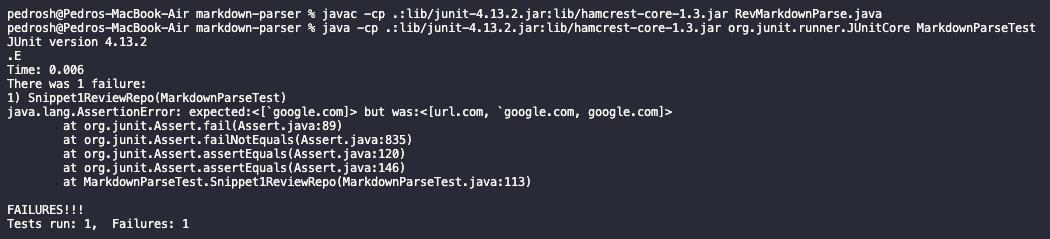
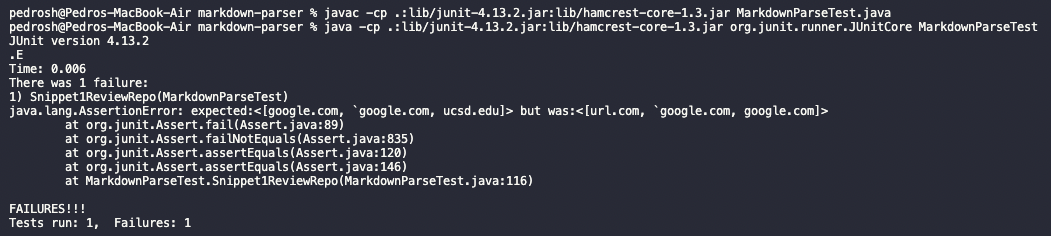
finish lab report 4

Changed region(s): [[0.0, 0.0297, 1.0, 0.8008], [0.0, 0.8602, 0.1829, 0.9788]]

diff --git a/lab-report-4.md b/lab-report-4.md
@@ -9,10 +9,14 @@
 **Only Valid Link:**
 ```
 [another link](`google.com)`
+
+[`cod[e`](google.com)
+
+[`code]`](ucsd.edu)
 ```
 **Expected Result:**
 ```
-[`google.com]
+[`google.com, google.com, ucsd.edu]
 ```
 
 ### Evidence of Code --> Test
@@ -37,14 +41,14 @@
 ```
 **Expected Result:**
 ```
-[a.com, a.com((, example.com]
+[a.com, a.com(()), example.com]
 ```
 
 ### Evidence of Code --> Test
 ![snippet2](/LabReport4/snippet2test.png)
 
 ### Personal Implementation
-**Passed the jUnit Test**
+![personalFail2](/LabReport4/personalFail2.png)
 
 ### Week 7 Implementation
 ![repoFail2](/LabReport4/repoFail2.png)
@@ -75,8 +79,8 @@ https://sites.google.com/eng.ucsd.edu/cse-15l-spring-2022/schedule
 
 ---
 # Questions
-1. Do you think there is a small (<10 lines) code change that will make your program work for snippet 1 and all related cases that use inline code with backticks? If yes, describe the code change. If not, describe why it would be a more involved change.
+1. The first thing that comes to mind is to implement a counter or sensor that checks for Back ticks. The way this would work is that if the current character is a backtick, then it would note its position and keep a lookout for the next backtick that closes the first one. With this information stored it can check if both backticks are between the square brackest position in order to be a valid link. 
 
-2. Do you think there is a small (<10 lines) code change that will make your program work for snippet 2 and all related cases that nest parentheses, brackets, and escaped brackets? If yes, describe the code change. If not, describe why it would be a more involved change.
+2. My implementation only missed the rest of the parenthesis in the second link. This is because it prematurley ended the loop and returned the valid link when it sensed the first parenthhesis, unawhere that there was more. I believe an implementation to solve this would be quite large because I imagine creating a new loop that checks the rest of the characters after the paranthesis that opens the link and checks what is after until a break in the line. This way it can count everything betwen the first parenthesis and until it finds the last one.
 
-3. Do you think there is a small (<10 lines) code change that will make your program work for snippet 3 and all related cases that have newlines in brackets and parentheses? If yes, describe the code change. If not, describe why it would be a more involved change.
+3. My implementation of MarkdownParse suffered heap space errors, that caused it to fail and not reach the valid link. I am not aware of how line breaks work as characters in a String, but I believe that a fix would be to create a check (if statment) that if a character to check if its parenthesis or square bracket, should check for this line break in order to break the loop as line breaks are not leagal to have within links in MarkDown. This way the lop will break in bad inputs and continue onto the next input instead of getting heap errors.
